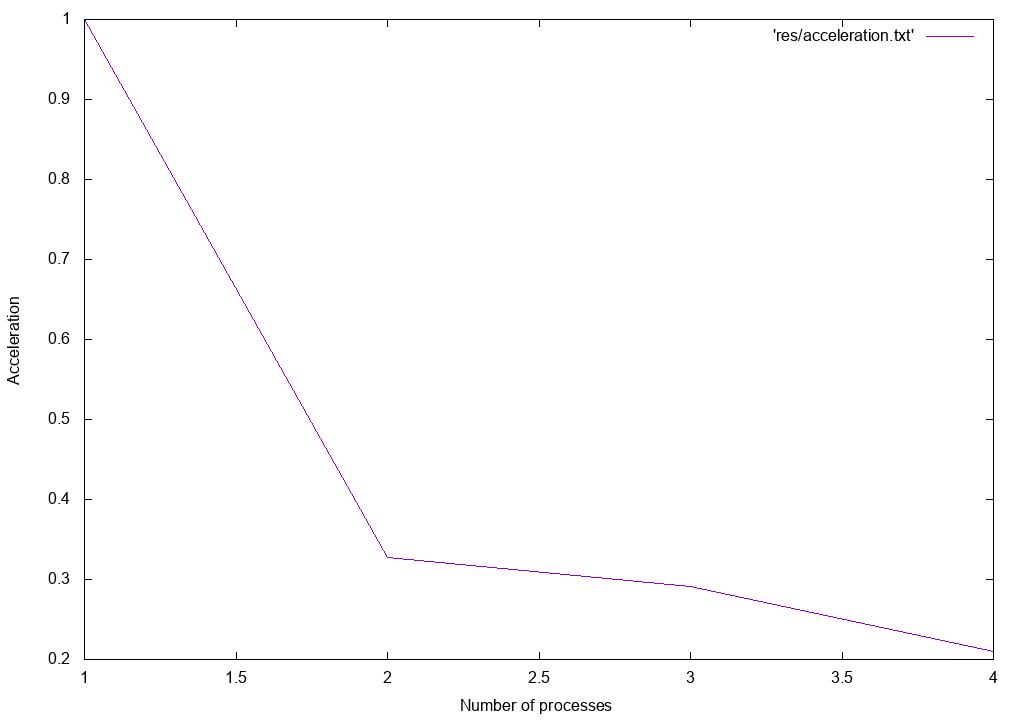
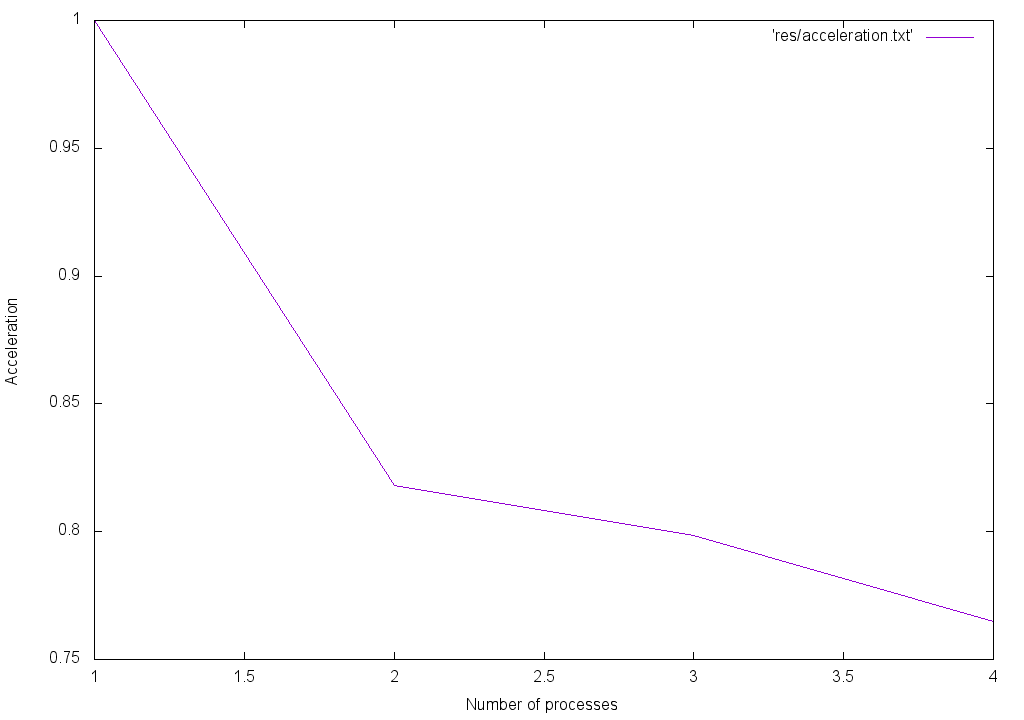
Updated graphics for the optimal values: T = 0.000001 M = 50000

diff --git a/OpenMP_heat/OmpFor/solution.c b/OpenMP_heat/OmpFor/solution.c
@@ -67,17 +67,21 @@ int main(int argc, char **argv)
 
 	// Задаем кол-во процессов для следующего распараллеливания
 	omp_set_num_threads(size);
-	for (n = 0; n < N; n++) {	 // Цикл по времени
-		// Явный метод
-		#pragma omp parallel for
-			for (m = 1; m < M - 1; m++) {
-				u1[m] = u0[m] + 0.3  * (u0[m - 1] - 2.0 * u0[m] + u0[m + 1]);
-			}
-
-		// Обновление результатов
-		double *t = u0;
-		u0 = u1;
-		u1 = t;
+	#pragma omp parallel
+	{
+		for (n = 0; n < N; n++) {	 // Цикл по времени
+			#pragma omp barrier // Явный метод
+			#pragma omp for
+				for (m = 1; m < M - 1; m++) {
+					u1[m] = u0[m] + 0.3  * (u0[m - 1] - 2.0 * u0[m] + u0[m + 1]);
+				}
+			#pragma omp barrier
+			// Обновление результатов
+			double *t = u0;
+			u0 = u1;
+			u1 = t;
+			//
+		}
 	}
 	
 	// Вывод на экран
